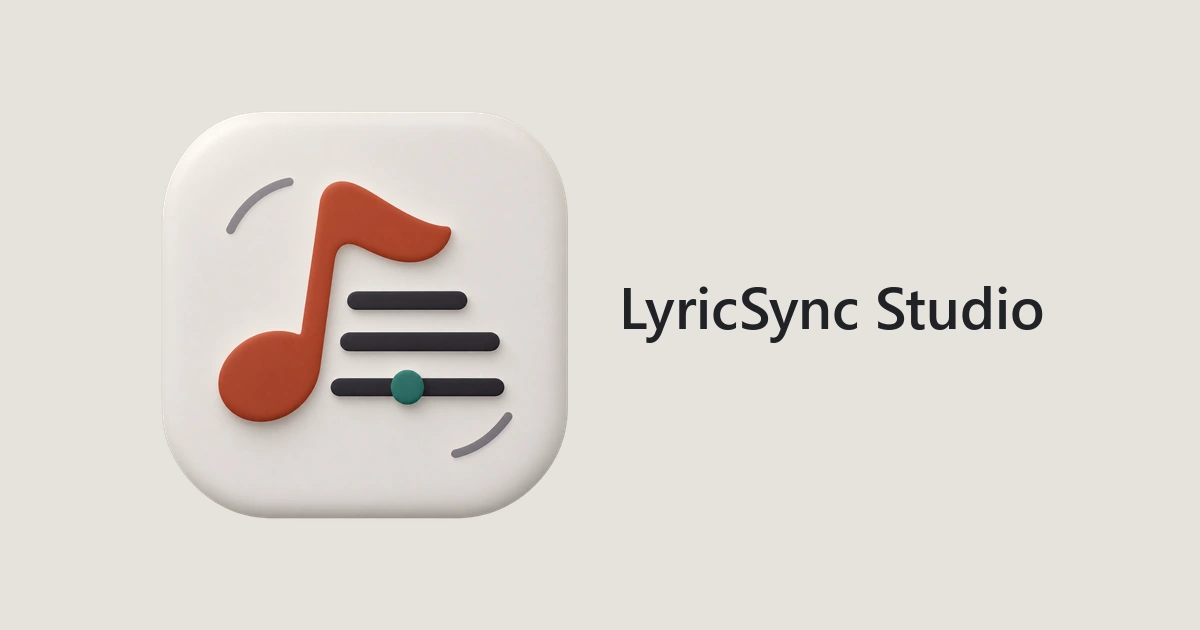
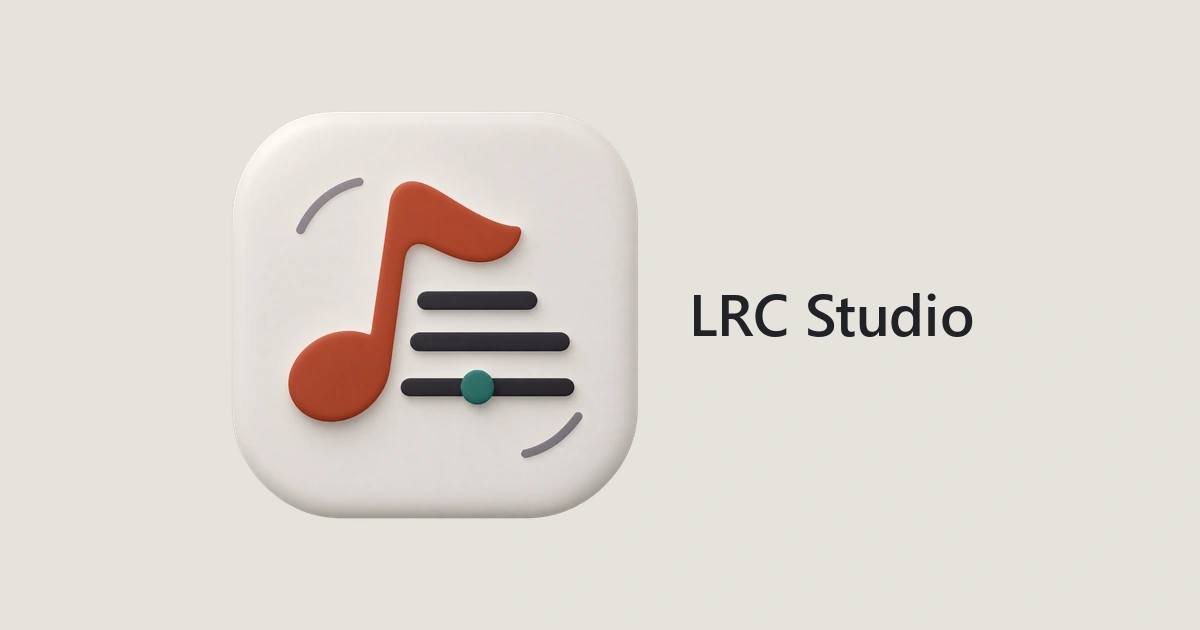
feat(branding): renombrar marca visible a LRC Studio y agregar créditos de autor

Changed region(s): [[0.185, 0.2714, 0.8942, 0.8444], [0.1542, 0.754, 0.2775, 0.8444]]

diff --git a/index.html b/index.html
@@ -5,11 +5,13 @@
     <meta name="viewport" content="width=device-width, initial-scale=1.0" />
     <meta name="theme-color" content="#E6E2DC" />
 
-    <title>LyricSync Studio — Sincroniza letras LRC y ELRC para karaoke en el navegador</title>
+    <title>LRC Studio — Sincroniza letras LRC y ELRC para karaoke en el navegador</title>
     <meta
       name="description"
       content="Estudio local-first para sincronizar letras LRC y ELRC palabra por palabra para karaoke directamente en el navegador, sin subir archivos ni perder tu progreso."
     />
+    <meta name="author" content="Dylan Villacorta" />
+    <link rel="author" href="https://dylanvillacorta.com" />
     <link rel="canonical" href="https://lrc.dirtykeras.com/" />
 
     <link rel="icon" href="/favicon.ico" sizes="any" />
@@ -20,10 +22,10 @@
 
     <meta property="og:type" content="website" />
     <meta property="og:locale" content="es_ES" />
-    <meta property="og:site_name" content="LyricSync Studio" />
+    <meta property="og:site_name" content="LRC Studio" />
     <meta
       property="og:title"
-      content="LyricSync Studio — Sincroniza letras LRC y ELRC para karaoke"
+      content="LRC Studio — Sincroniza letras LRC y ELRC para karaoke"
     />
     <meta
       property="og:description"
@@ -35,13 +37,13 @@
     <meta property="og:image:height" content="630" />
     <meta
       property="og:image:alt"
-      content="LyricSync Studio — Sincronizador de letras LRC y ELRC"
+      content="LRC Studio — Sincronizador de letras LRC y ELRC"
     />
 
     <meta name="twitter:card" content="summary_large_image" />
     <meta
       name="twitter:title"
-      content="LyricSync Studio — Sincroniza letras LRC y ELRC para karaoke"
+      content="LRC Studio — Sincroniza letras LRC y ELRC para karaoke"
     />
     <meta
       name="twitter:description"
@@ -53,11 +55,16 @@
       {
         "@context": "https://schema.org",
         "@type": "SoftwareApplication",
-        "name": "LyricSync Studio",
+        "name": "LRC Studio",
         "applicationCategory": "MultimediaApplication",
         "operatingSystem": "Web",
         "inLanguage": "es",
         "url": "https://lrc.dirtykeras.com/",
+        "author": {
+          "@type": "Person",
+          "name": "Dylan Villacorta",
+          "url": "https://dylanvillacorta.com"
+        },
         "description": "Herramienta web local-first para sincronizar letras LRC y ELRC palabra por palabra para karaoke directamente en el navegador, sin subir archivos.",
         "offers": {
           "@type": "Offer",
@@ -71,9 +78,9 @@
     <div id="root"></div>
     <noscript>
       <main>
-        <h1>LyricSync Studio</h1>
+        <h1>LRC Studio</h1>
         <p>
-          LyricSync Studio es una herramienta web para sincronizar letras LRC y ELRC palabra por palabra para karaoke directamente en el navegador, sin subir archivos. Activa JavaScript para usar el estudio de sincronización.
+          LRC Studio es una herramienta web para sincronizar letras LRC y ELRC palabra por palabra para karaoke directamente en el navegador, sin subir archivos. Activa JavaScript para usar el estudio de sincronización.
         </p>
       </main>
     </noscript>

diff --git a/e2e/seo.spec.ts b/e2e/seo.spec.ts
@@ -20,6 +20,11 @@ test.describe('SEO, metadatos y endpoints estáticos', () => {
       (await descriptions.first().getAttribute('content'))?.trim().length,
     ).toBeGreaterThan(20);
 
+    await expect(page.locator('meta[name="author"]')).toHaveAttribute('content', 'Dylan Villacorta');
+    await expect(page.locator('link[rel="author"]')).toHaveAttribute(
+      'href',
+      'https://dylanvillacorta.com',
+    );
     await expect(page.locator('link[rel="canonical"]')).toHaveAttribute(
       'href',
       'https://lrc.dirtykeras.com/',
@@ -60,13 +65,18 @@ test.describe('SEO, metadatos y endpoints estáticos', () => {
     expect(ldJsonRaw).toBeTruthy();
     const ldJson = JSON.parse(ldJsonRaw ?? '{}') as Record<string, unknown>;
     expect(ldJson['@type']).toBe('SoftwareApplication');
-    expect(ldJson['name']).toBe('LyricSync Studio');
+    expect(ldJson['name']).toBe('LRC Studio');
     expect(ldJson['inLanguage']).toBe('es');
+    expect(ldJson['author']).toEqual({
+      '@type': 'Person',
+      name: 'Dylan Villacorta',
+      url: 'https://dylanvillacorta.com',
+    });
 
     // <noscript> presente
     const noscript = page.locator('noscript');
     await expect(noscript).toHaveCount(1);
-    expect(await noscript.innerHTML()).toContain('LyricSync Studio');
+    expect(await noscript.innerHTML()).toContain('LRC Studio');
 
     // Manifest enlazado y accesible
     const manifestHref = await page.locator('link[rel="manifest"]').getAttribute('href');
@@ -75,9 +85,11 @@ test.describe('SEO, metadatos y endpoints estáticos', () => {
     expect(manifestRes.status()).toBe(200);
     const manifestJson = (await manifestRes.json()) as {
       name?: string;
+      short_name?: string;
       icons?: Array<{ src?: string; sizes?: string; type?: string; purpose?: string }>;
     };
-    expect(manifestJson.name).toBe('LyricSync Studio');
+    expect(manifestJson.name).toBe('LRC Studio');
+    expect(manifestJson.short_name).toBe('LRC Studio');
     expect(Array.isArray(manifestJson.icons) && manifestJson.icons.length).toBeGreaterThan(0);
 
     for (const icon of manifestJson.icons ?? []) {

diff --git a/src/features/version/InfoDialog.tsx b/src/features/version/InfoDialog.tsx
@@ -156,7 +156,7 @@ export function InfoDialog({
               id={titleId}
               className="m-0 text-lg font-extrabold text-ink truncate"
             >
-              LyricSync Studio
+              LRC Studio
             </h2>
           </div>
 
@@ -196,6 +196,17 @@ export function InfoDialog({
               <span className="font-mono text-xs font-bold text-ink truncate">
                 {resolvedDomain}
               </span>
+            </div>
+            <div className="flex items-center justify-between gap-2 text-sm pt-1 border-t border-lo/40">
+              <span className="font-bold text-mute">Creado por</span>
+              <a
+                href="https://dylanvillacorta.com"
+                target="_blank"
+                rel="noopener noreferrer"
+                className="inline-flex items-center min-h-[44px] px-2 -mr-2 font-extrabold text-ink underline decoration-acc/60 underline-offset-4 hover:text-acc focus-visible:outline-none focus-visible:ring-2 focus-visible:ring-acc rounded-[10px]"
+              >
+                Dylan Villacorta
+              </a>
             </div>
           </WellPanel>
 

diff --git a/src/features/catalog/model/catalogOperations.ts b/src/features/catalog/model/catalogOperations.ts
@@ -115,7 +115,7 @@ function isRecord(value: unknown): value is Record<string, unknown> {
 }
 
 /**
- * Importa un respaldo de catálogo (`CatalogBackup`) o un proyecto JSON individual de LyricSync.
+ * Importa un respaldo de catálogo (`CatalogBackup`) o un proyecto JSON individual de LRC Studio.
  * Si es un proyecto JSON individual, migra su esquema y crea un nuevo proyecto sin audio.
  */
 export async function importCatalogBackupFromJson(
@@ -135,7 +135,7 @@ export async function importCatalogBackupFromJson(
 
   if (!isRecord(parsed)) {
     throw new Error(
-      'El archivo JSON no tiene un formato válido: se esperaba un respaldo de catálogo o un proyecto JSON de LyricSync.',
+      'El archivo JSON no tiene un formato válido: se esperaba un respaldo de catálogo o un proyecto JSON de LRC Studio.',
     );
   }
 
@@ -157,6 +157,6 @@ export async function importCatalogBackupFromJson(
   }
 
   throw new Error(
-    'Formato JSON no reconocido: se esperaba un respaldo de catálogo o un proyecto JSON de LyricSync.',
+    'Formato JSON no reconocido: se esperaba un respaldo de catálogo o un proyecto JSON de LRC Studio.',
   );
 }

diff --git a/src/features/export/model/exporters.test.ts b/src/features/export/model/exporters.test.ts
@@ -13,7 +13,7 @@ import type { SongMetadata } from '@/types';
 
 const demoMeta: SongMetadata = {
   title: 'Luces de Neón (Demo Synth)',
-  artist: 'LyricSync Studio Artist',
+  artist: 'LRC Studio Artist',
   album: 'Midnight Sessions',
   offsetMs: 0,
 };
@@ -25,7 +25,7 @@ describe('exporters', () => {
 
     const expectedStart = [
       '[ti:Luces de Neón (Demo Synth)]',
-      '[ar:LyricSync Studio Artist]',
+      '[ar:LRC Studio Artist]',
       '[al:Midnight Sessions]',
       '',
       '[00:01.50] Luces de neón brillan en la ciudad',
@@ -45,7 +45,7 @@ describe('exporters', () => {
 
     const outputLines = elrc.split('\n');
     expect(outputLines[0]).toBe('[ti:Luces de Neón (Demo Synth)]');
-    expect(outputLines[3]).toBe('[by:LyricSync Studio Pro]');
+    expect(outputLines[3]).toBe('[by:LRC Studio]');
     expect(outputLines[5]).toContain('[00:01.50] <00:01.50>Luces');
     expect(outputLines[7]).toBe(
       '[00:09.00] Cada latido marca nuestra canción',

diff --git a/e2e/ui-polish.spec.ts b/e2e/ui-polish.spec.ts
@@ -67,7 +67,15 @@ test.describe('Pulido de interfaz (T22)', () => {
 
     const dialog = page.getByRole('dialog');
     await expect(dialog).toBeVisible();
-    await expect(dialog).toContainText('LyricSync Studio');
+    await expect(dialog).toContainText('LRC Studio');
+    await expect(dialog).toContainText('Creado por');
+    const authorLink = dialog.getByRole('link', { name: 'Dylan Villacorta' });
+    await expect(authorLink).toHaveAttribute('href', 'https://dylanvillacorta.com');
+    await expect(authorLink).toHaveAttribute('target', '_blank');
+    await expect(authorLink).toHaveAttribute('rel', 'noopener noreferrer');
+    const authorBox = await authorLink.boundingBox();
+    expect(authorBox).not.toBeNull();
+    expect(authorBox!.height).toBeGreaterThanOrEqual(44);
     await expect(dialog).toContainText(/v\d+\.\d+\.\d+/);
     await expect(dialog).toContainText('Commit');
     await expect(

diff --git a/src/app/layouts/DesktopCatalogSidebar.tsx b/src/app/layouts/DesktopCatalogSidebar.tsx
@@ -101,6 +101,18 @@ export const DesktopCatalogSidebar = memo(function DesktopCatalogSidebar({
         <Icon name="plus" size={20} />
         <span>Nueva transcripción</span>
       </RaisedButton>
+
+      <p className="m-0 text-center text-xs font-semibold text-mute leading-tight">
+        Creado por{' '}
+        <a
+          href="https://dylanvillacorta.com"
+          target="_blank"
+          rel="noopener noreferrer"
+          className="font-bold text-ink underline decoration-acc/50 underline-offset-2 hover:text-acc focus-visible:outline-none focus-visible:ring-2 focus-visible:ring-acc rounded"
+        >
+          Dylan Villacorta
+        </a>
+      </p>
     </aside>
   );
 });

diff --git a/src/features/catalog/components/CatalogPanel.tsx b/src/features/catalog/components/CatalogPanel.tsx
@@ -180,6 +180,18 @@ export const CatalogPanel = memo(function CatalogPanel({
           ))
         )}
       </ScrollShadow>
+
+      <p className="m-0 flex-none text-center text-xs font-semibold text-mute">
+        Creado por{' '}
+        <a
+          href="https://dylanvillacorta.com"
+          target="_blank"
+          rel="noopener noreferrer"
+          className="inline-flex items-center min-h-[44px] px-1 font-bold text-ink underline decoration-acc/50 underline-offset-2 hover:text-acc focus-visible:outline-none focus-visible:ring-2 focus-visible:ring-acc rounded"
+        >
+          Dylan Villacorta
+        </a>
+      </p>
     </section>
   );
 });

diff --git a/docs/wireframe/Escritorio.dc.html b/docs/wireframe/Escritorio.dc.html
@@ -15,7 +15,7 @@
 <div class="dsk">
   <div class="row" style="flex-wrap:wrap;gap:16px">
     <div class="ibtn round raised-sm" style="width:48px;height:48px;color:var(--acc)"><svg class="i" viewBox="0 0 24 24" aria-hidden="true"><path d="M12 3v14M8 7v6M16 6v8M4 10v2M20 9v4"/></svg></div>
-    <div style="font-weight:800;font-size:18px">LyricSync Studio</div>
+    <div style="font-weight:800;font-size:18px">LRC Studio</div>
     <div style="flex:1;min-width:120px"></div>
     <div class="seg" style="width:300px"><button>Línea</button><button class="on">Palabra</button><button>Ráfaga</button></div>
     <div class="saved"><i></i>Guardado · 14:02</div>

diff --git a/src/features/version/InfoDialog.test.tsx b/src/features/version/InfoDialog.test.tsx
@@ -37,7 +37,12 @@ describe('InfoDialog', () => {
 
     expect(html).toContain('role="dialog"');
     expect(html).toContain('aria-modal="true"');
-    expect(html).toContain('LyricSync Studio');
+    expect(html).toContain('LRC Studio');
+    expect(html).toContain('Creado por');
+    expect(html).toContain('href="https://dylanvillacorta.com"');
+    expect(html).toContain('target="_blank"');
+    expect(html).toContain('rel="noopener noreferrer"');
+    expect(html).toContain('Dylan Villacorta');
     expect(html).toContain('v1.2.3');
     expect(html).toContain('abc1234');
     expect(html).toContain('lrc.dirtykeras.com');

diff --git a/src/features/export/model/exporters.ts b/src/features/export/model/exporters.ts
@@ -80,7 +80,7 @@ export function exportElrc(
     `[ti:${metadata.title}]`,
     `[ar:${metadata.artist}]`,
     `[al:${metadata.album}]`,
-    '[by:LyricSync Studio Pro]',
+    '[by:LRC Studio]',
     '',
   ];
 
@@ -154,7 +154,7 @@ export function exportJson(
 }
 
 /**
- * Valida e importa un archivo JSON de proyecto de LyricSync Studio.
+ * Valida e importa un archivo JSON de proyecto de LRC Studio.
  * Delega la normalización de versiones en `migrateProjectJson`.
  * Devuelve las líneas restauradas en milisegundos y metadatos, o un error en español.
  */

diff --git a/e2e/export.spec.ts b/e2e/export.spec.ts
@@ -76,7 +76,7 @@ test.describe('Exportación LRC, ELRC, JSON e importación', () => {
       .getByRole('group', { name: 'Formato de exportación' })
       .getByRole('button', { name: 'ELRC', exact: true })
       .click();
-    await expect(preview).toContainText('[by:LyricSync Studio Pro]');
+    await expect(preview).toContainText('[by:LRC Studio]');
     await expect(preview).toContainText(/<00:\d{2}\.\d{2}>Nada/);
 
     // Vista previa JSON
